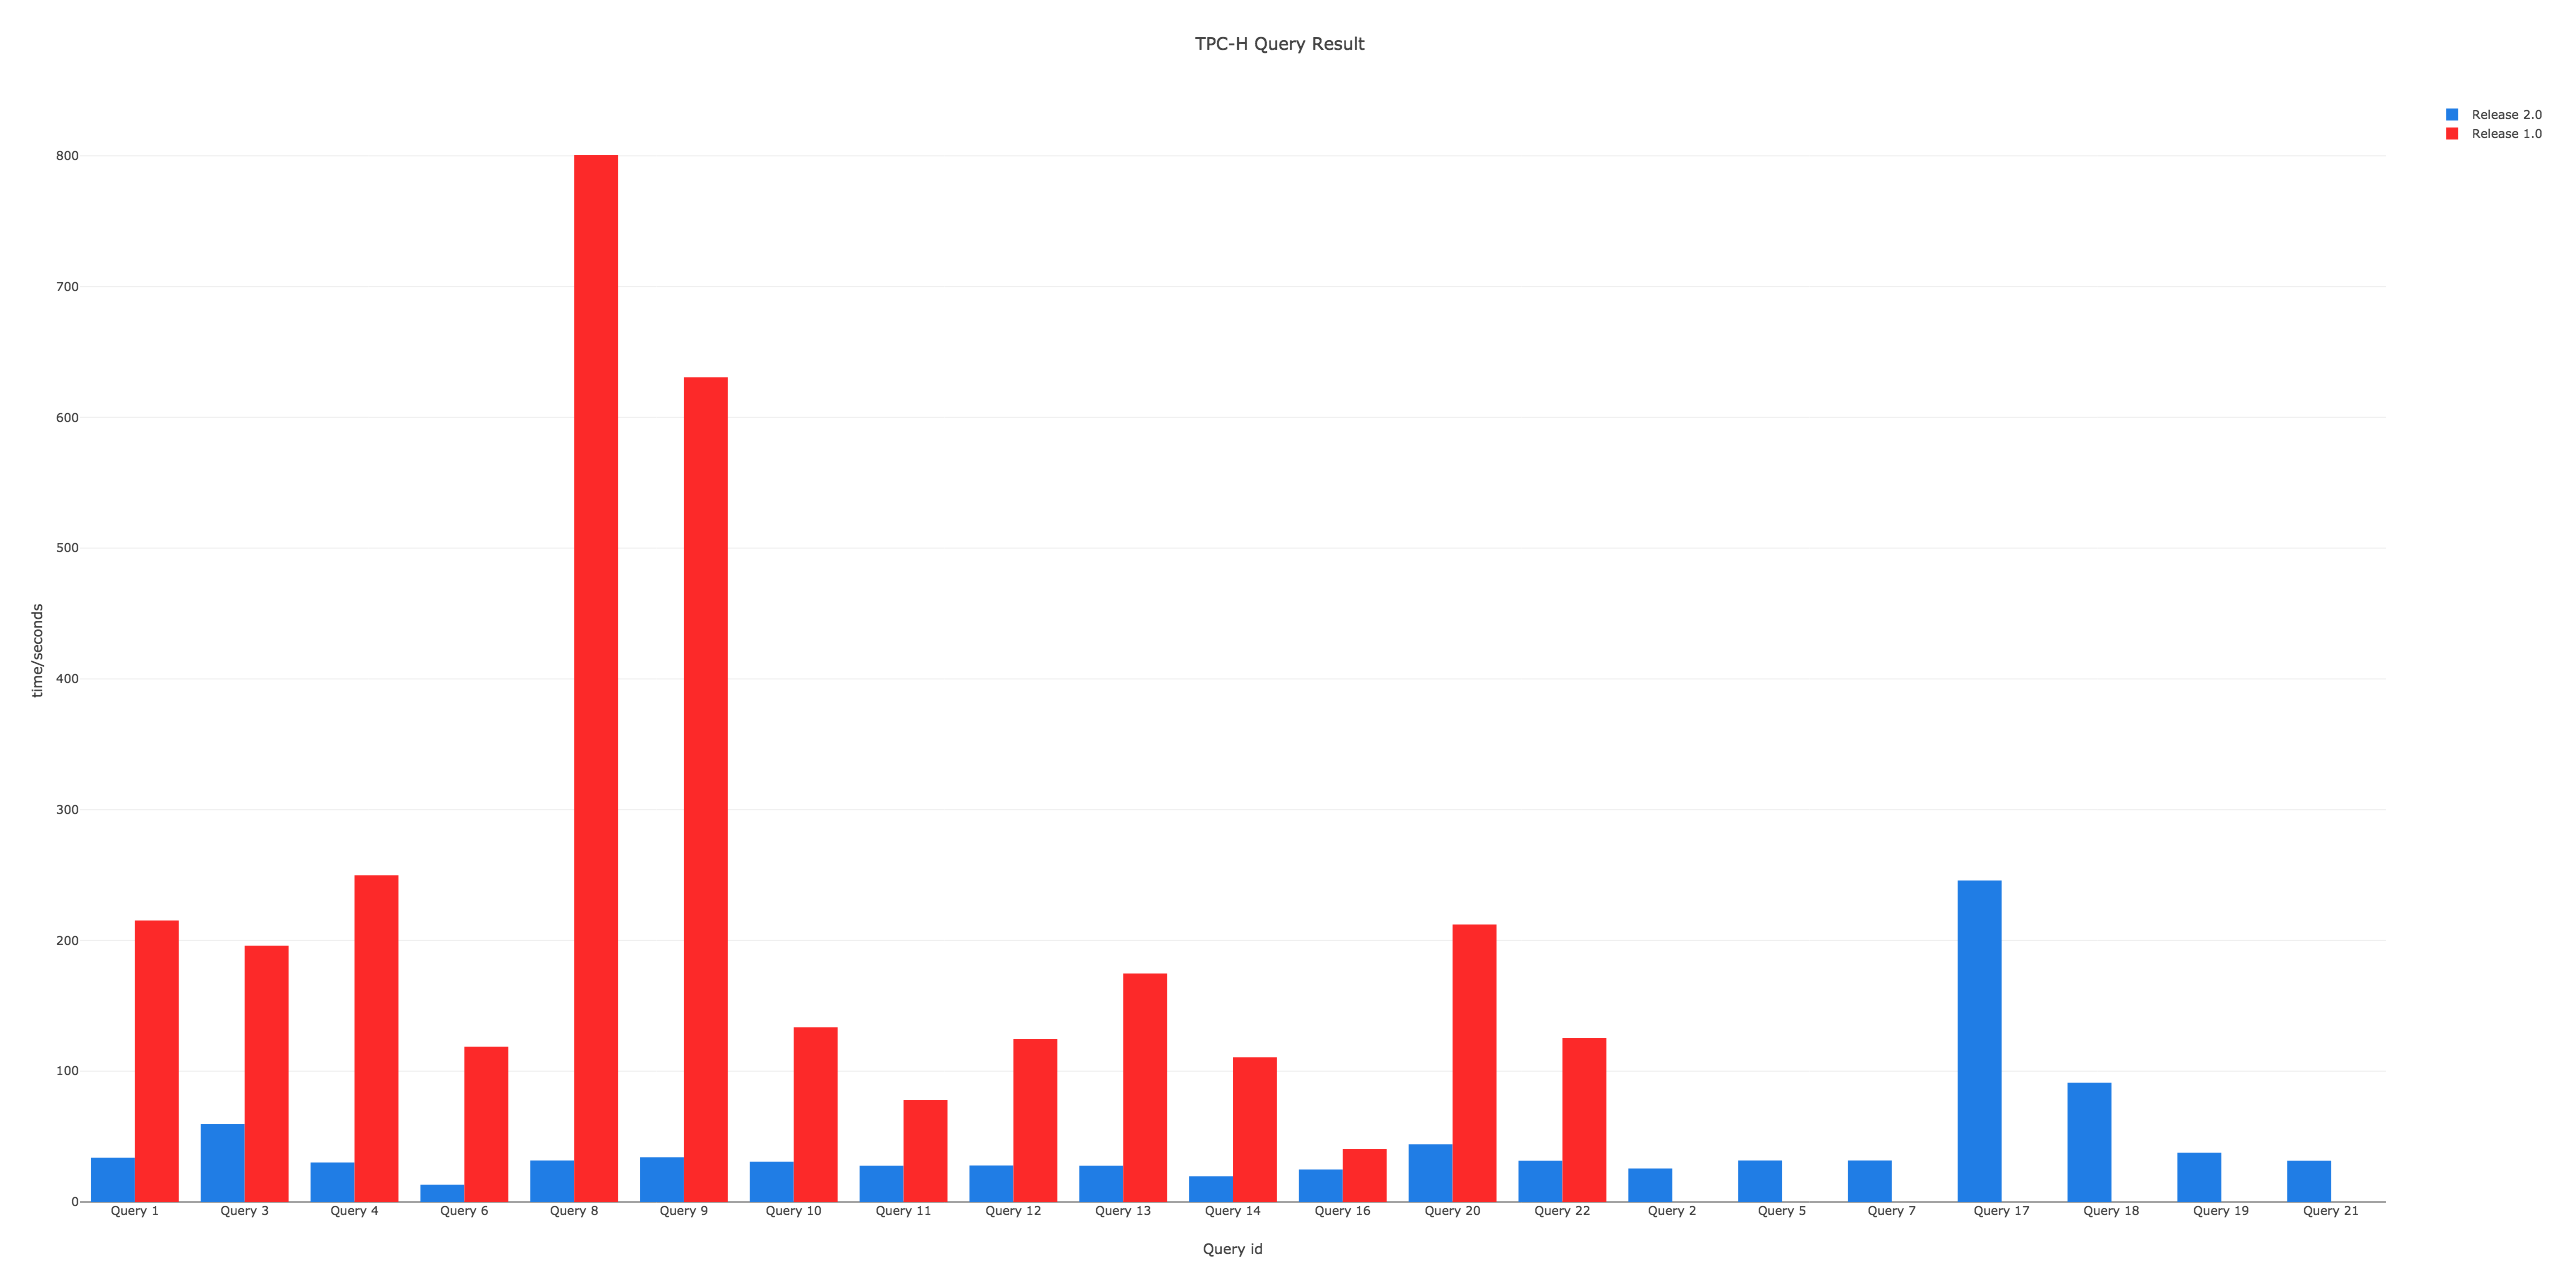
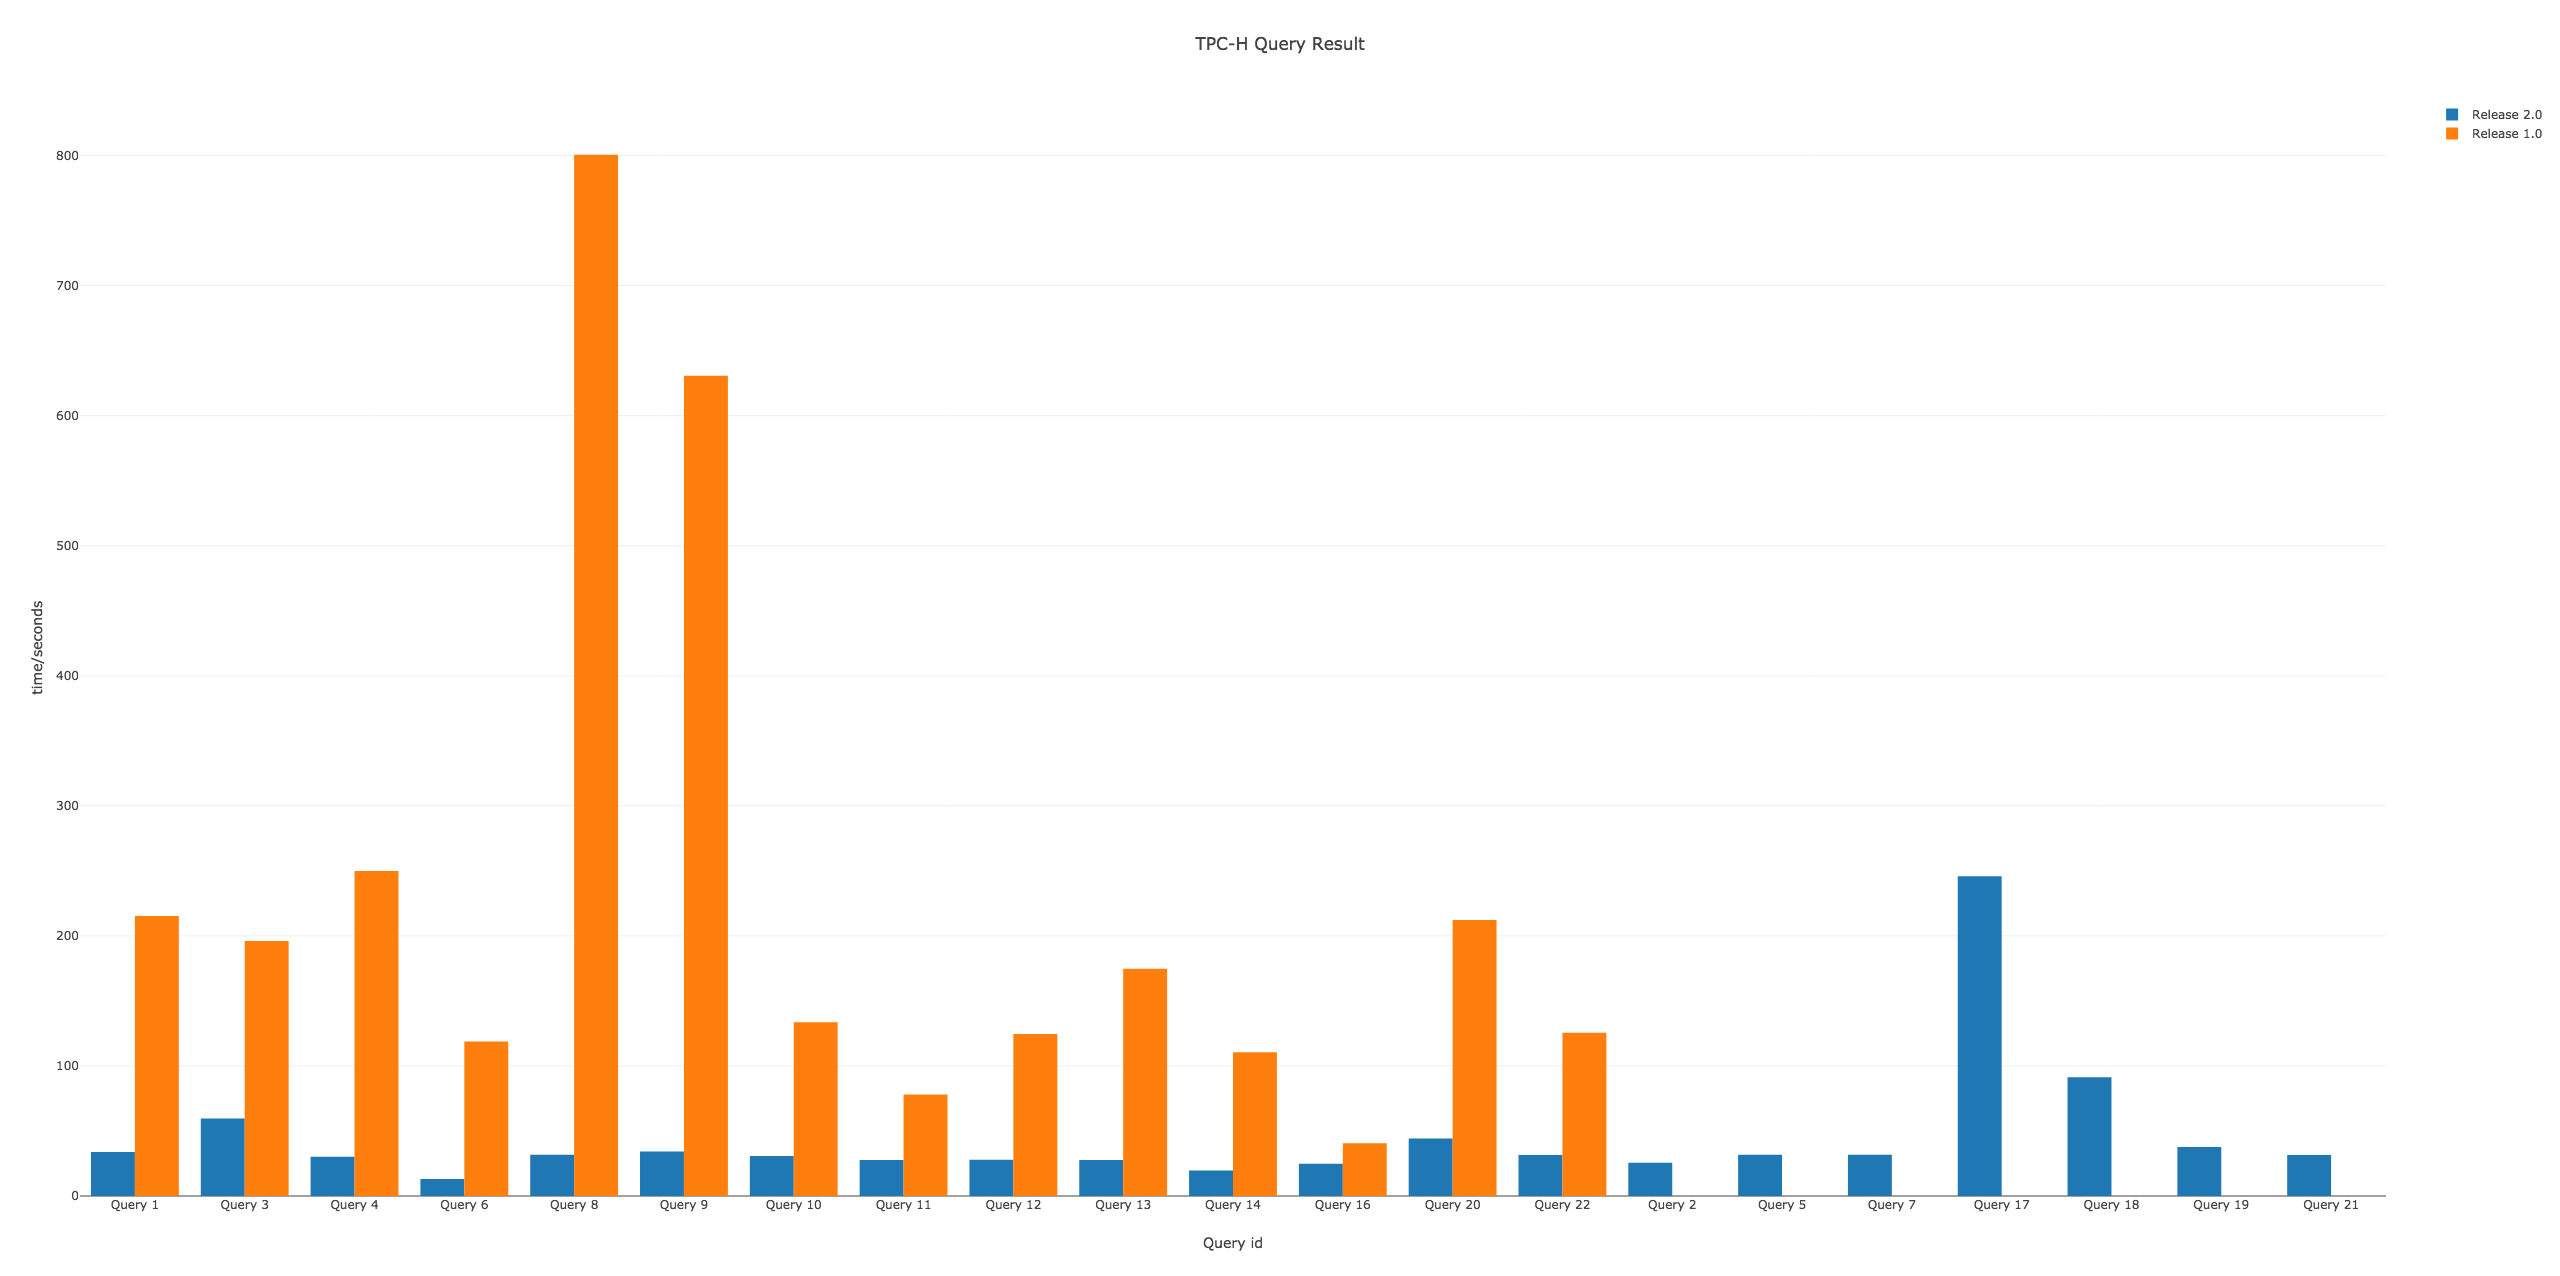
change colors

Changed region(s): [[0.0312, 0.1223, 0.9375, 0.9475]]

diff --git a/benchmark/tpch.md b/benchmark/tpch.md
@@ -100,7 +100,7 @@ TiDB 2.0：
 ![TPC-H Query Result](./tpch.png)
 
 说明：
-- 图中红色为 Release 1.0，蓝色为 Release 2.0
+- 图中橙色为 Release 1.0，蓝色为 Release 2.0
 - Query 15 因为 1.0 和 2.0 都还未支持视图，所以结果标记为 NaN
 - Query 2, 17, 19 因为 TiDB 1.0 长时间未跑出结果，所以结果标记为 Nan
 - Query 5, 7, 18, 21 因为 TiDB 1.0 在跑的过程中内存占用过多被 oom-killer 杀死，所以结果标记为 OOM
